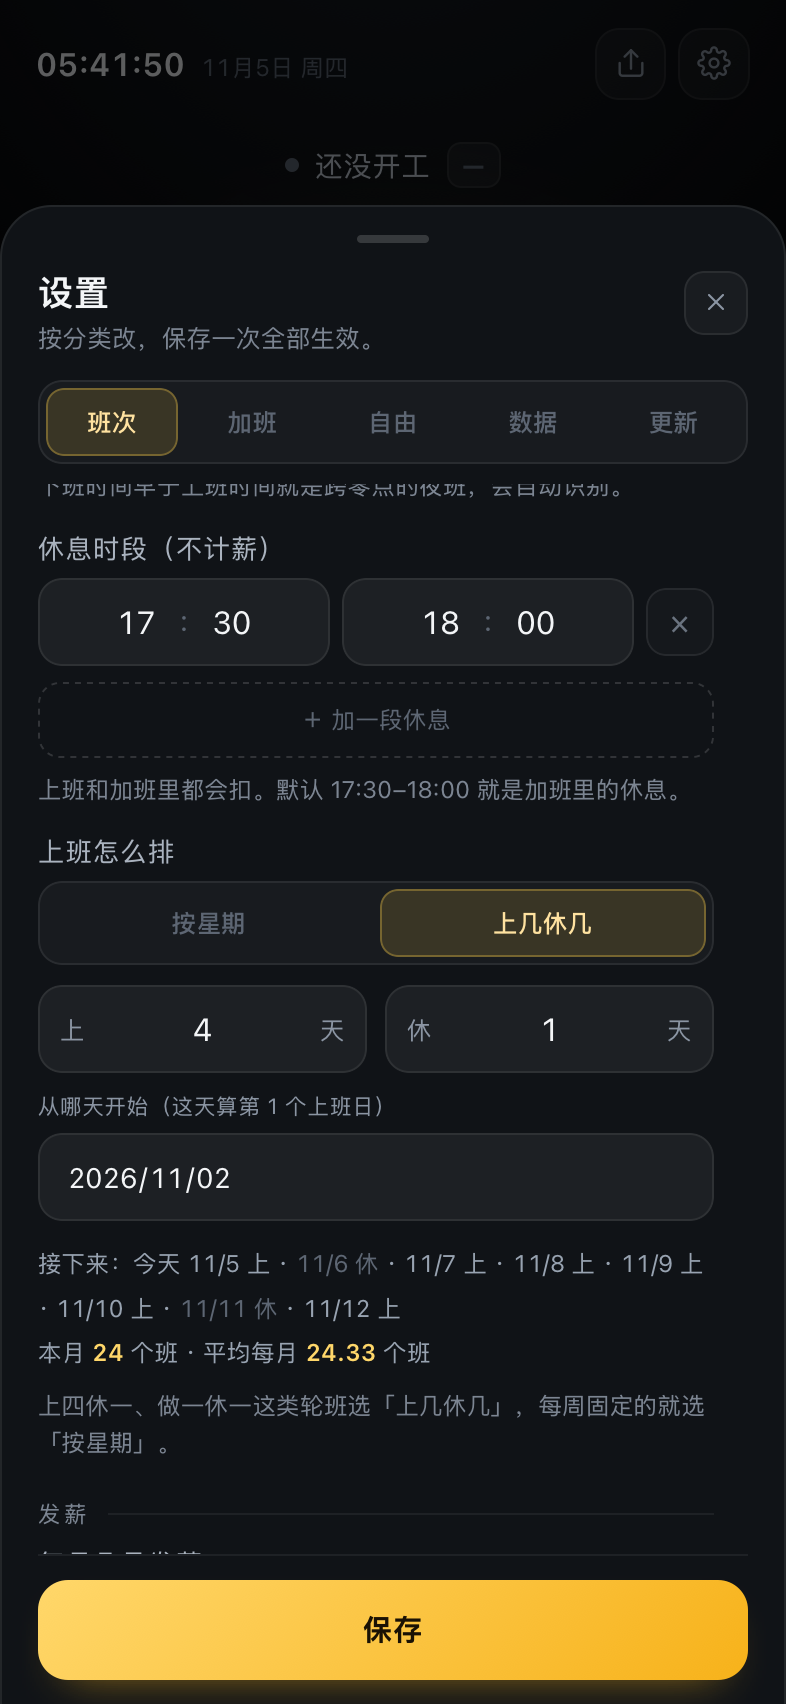
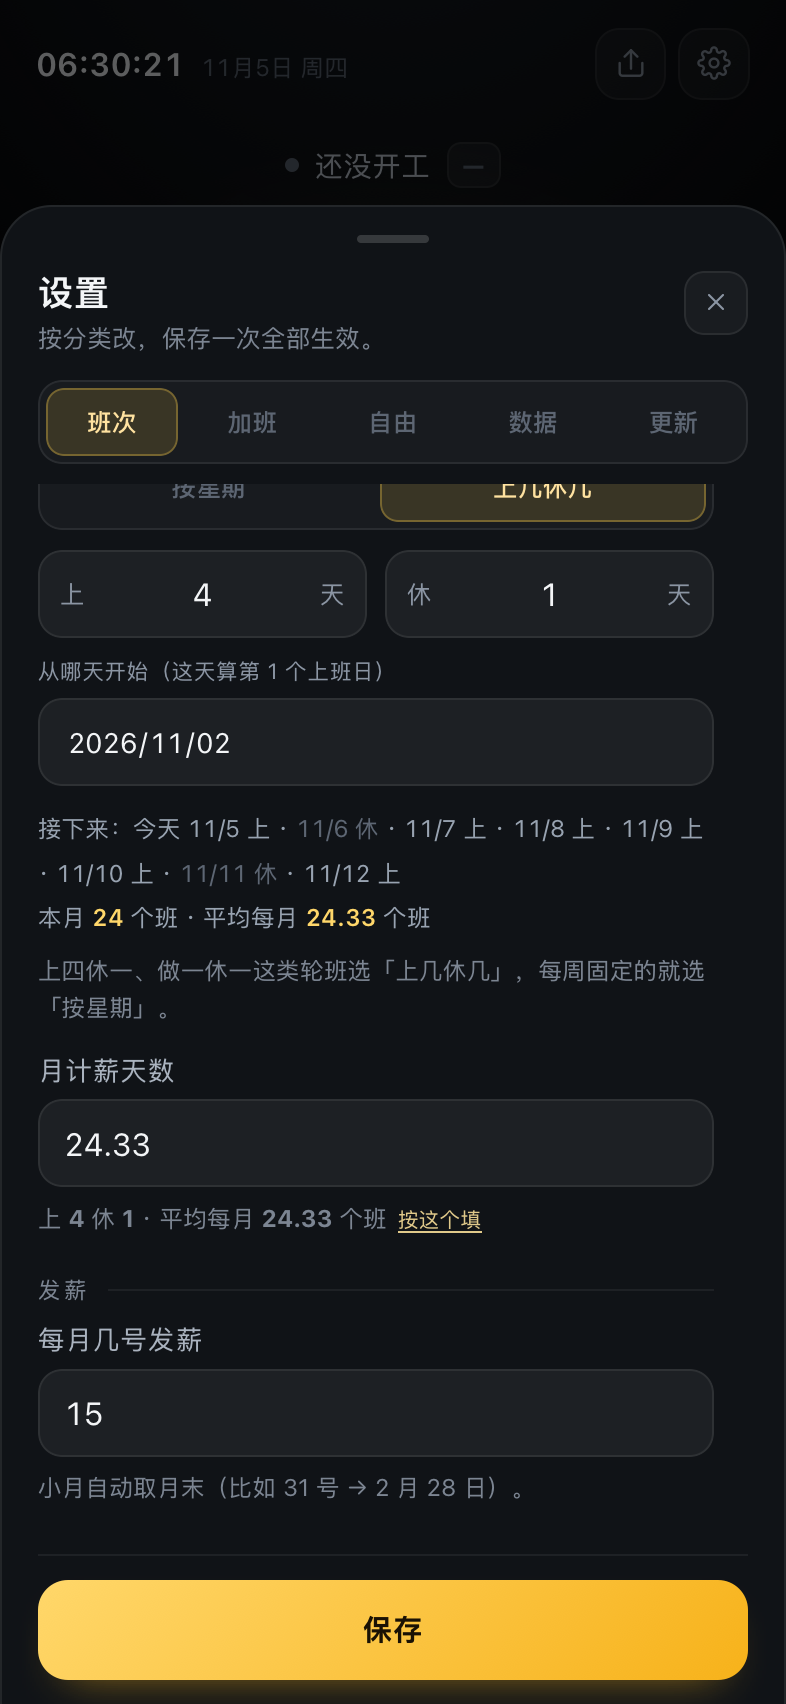
feat: place monthly paid days right after the schedule picker (v1.3.6)

diff --git a/index.html b/index.html
@@ -839,13 +839,6 @@
         <div class="hint">填你实际拿到手的那个数，看着更爽。</div>
       </div>
 
-      <div class="field">
-        <label for="inWorkDays">月计薪天数</label>
-        <input type="number" id="inWorkDays" inputmode="decimal" min="1" max="31" step="0.25" placeholder="21.75">
-        <div class="hint" id="daysHint">法定平均值 21.75，按实际工作日可以填 22。</div>
-        <div class="hint" id="cycleDaysHint" hidden>上 <b id="cycleHintWork">4</b> 休 <b id="cycleHintRest">1</b> · 平均每月 <b id="cycleHintAvg">24.33</b> 个班 <button type="button" class="link-btn" id="useCycleDays">按这个填</button></div>
-      </div>
-
       <div class="section">上班时间</div>
 
       <div class="field">
@@ -909,6 +902,13 @@
           <div class="cycle-preview" id="cyclePreview"></div>
         </div>
         <div class="hint">上四休一、做一休一这类轮班选「上几休几」，每周固定的就选「按星期」。</div>
+      </div>
+
+      <div class="field">
+        <label for="inWorkDays">月计薪天数</label>
+        <input type="number" id="inWorkDays" inputmode="decimal" min="1" max="31" step="0.25" placeholder="21.75">
+        <div class="hint" id="daysHint">法定平均值 21.75，按实际工作日可以填 22。</div>
+        <div class="hint" id="cycleDaysHint" hidden>上 <b id="cycleHintWork">4</b> 休 <b id="cycleHintRest">1</b> · 平均每月 <b id="cycleHintAvg">24.33</b> 个班 <button type="button" class="link-btn" id="useCycleDays">按这个填</button></div>
       </div>
 
       <div class="section">发薪</div>
@@ -1153,8 +1153,12 @@
   }
 
   // 当前版本 + 更新日志（发版时改这里，设置面板直接渲染）
-  var APP_VERSION = "1.3.5";
+  var APP_VERSION = "1.3.6";
   var CHANGELOG = [
+    { version: "1.3.6", date: "2026-11-05", items: [
+      "「月计薪天数」移到「上班怎么排」之后：选完排班再按平均班数填，顺序更顺",
+      "循环排班下面的「按这个填」不用再往上找"
+    ] },
     { version: "1.3.5", date: "2026-11-05", items: [
       "主界面底部加了暖色渐变，iPhone 安全区 / 底边不再是一块纯黑",
       "设置、记录面板禁止左右拖动：班次页只能上下滚",

diff --git a/README.zh.md b/README.zh.md
@@ -104,7 +104,7 @@
 
 > 例：上四休一、2026-11-02 起 → 11/2–11/5 上班，11/6 休息，11/7 开始下一轮。
 
-上四休一平均每月 **24.33** 个班。月计薪天数按什么口径填，取决于你工资条怎么算：
+填完排班，正下方的「月计薪天数」会给建议。上四休一平均每月 **24.33** 个班，按什么口径填取决于你工资条怎么算：
 
 - 按实际出勤天数折算 → 点「按这个填」，填 24.33
 - 按法定 21.75 算日工资 → 保持 21.75 不动
@@ -268,7 +268,7 @@
 
 ## 版本与更新
 
-- 当前版本 **v1.3.5**（2026-11-05）
+- 当前版本 **v1.3.6**（2026-11-05）
 - 设置分成「班次 / 加班 / 自由 / 数据 / 更新」五类；更新日志在「更新」页，有版本号、更新时间、每个版本改了什么
 - 有新版本时点设置会直接打开「更新」页，右上角齿轮也会亮一个小圆点；看过一次就不再提示
 - 屏幕够高时主界面底部也会显示版本号（矮屏收在设置 → 更新里）
